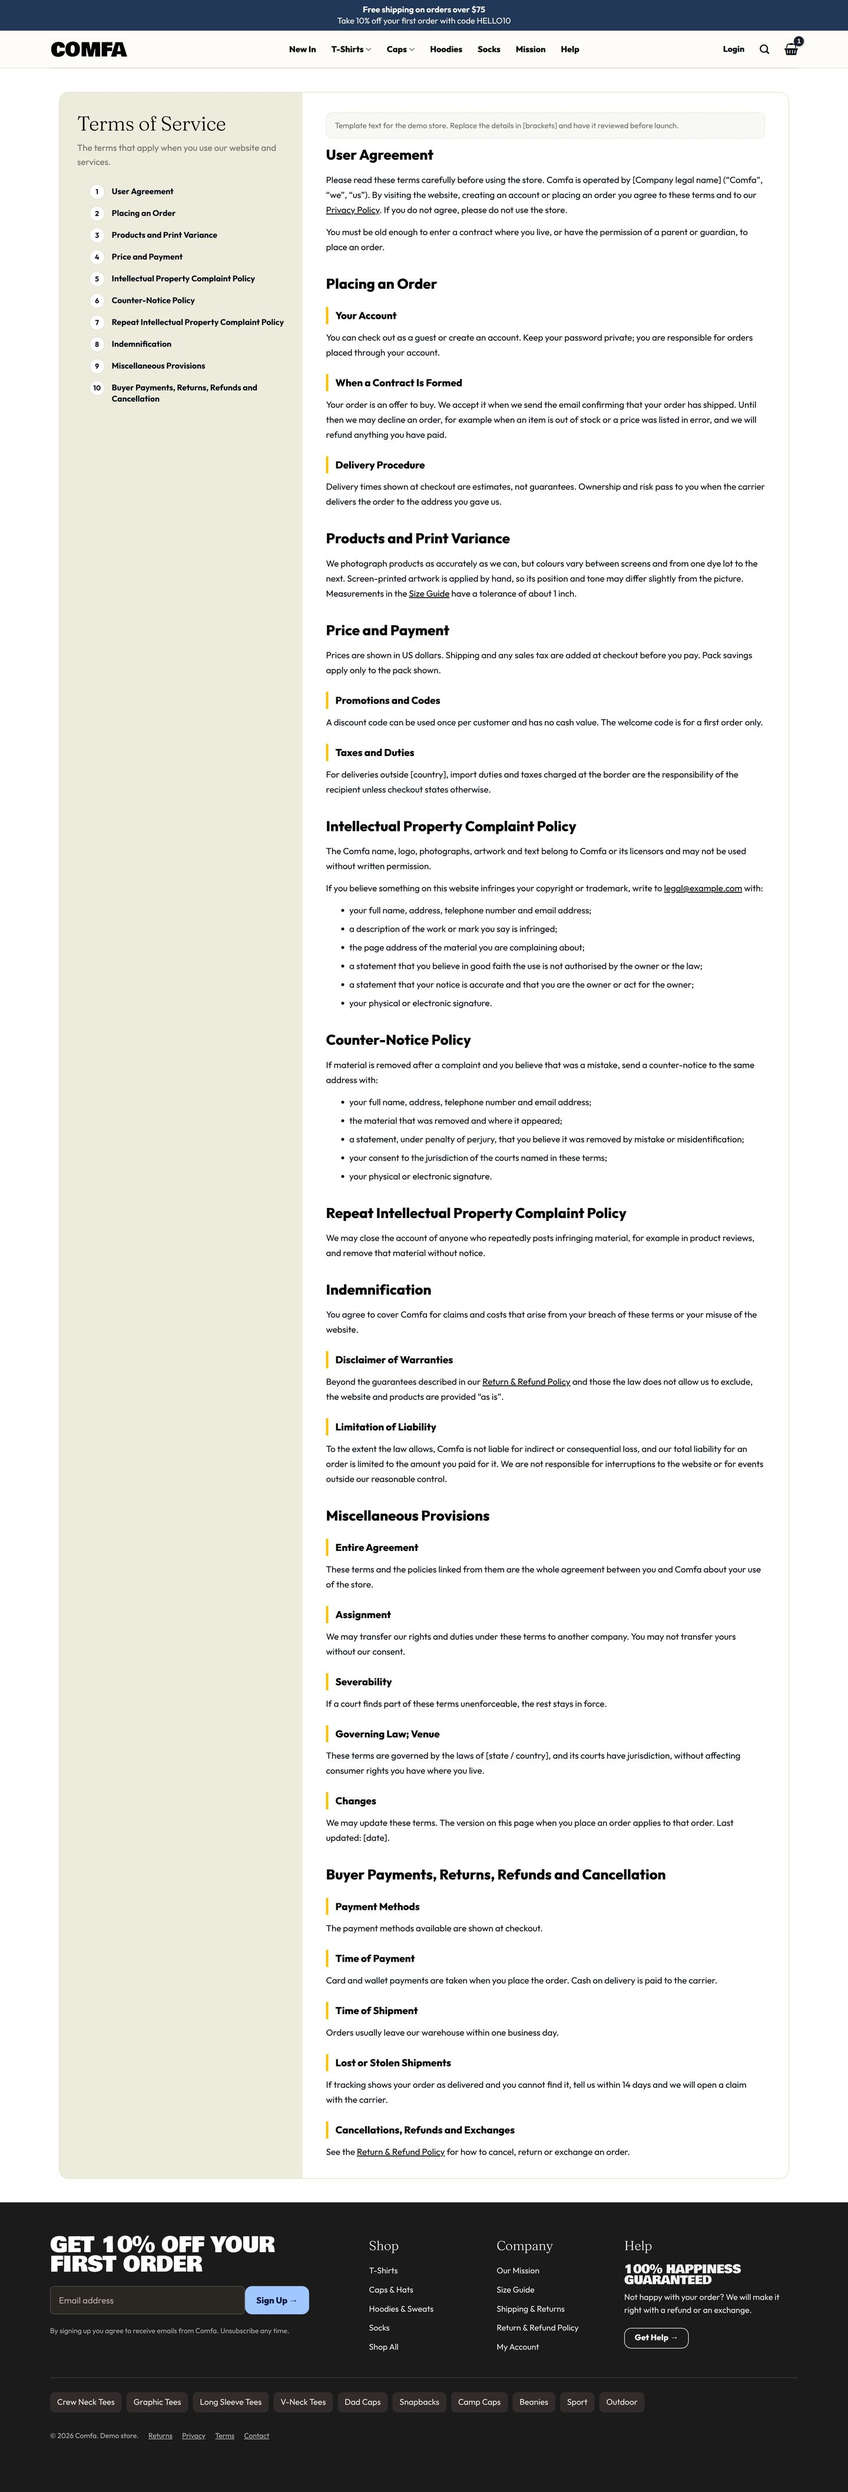
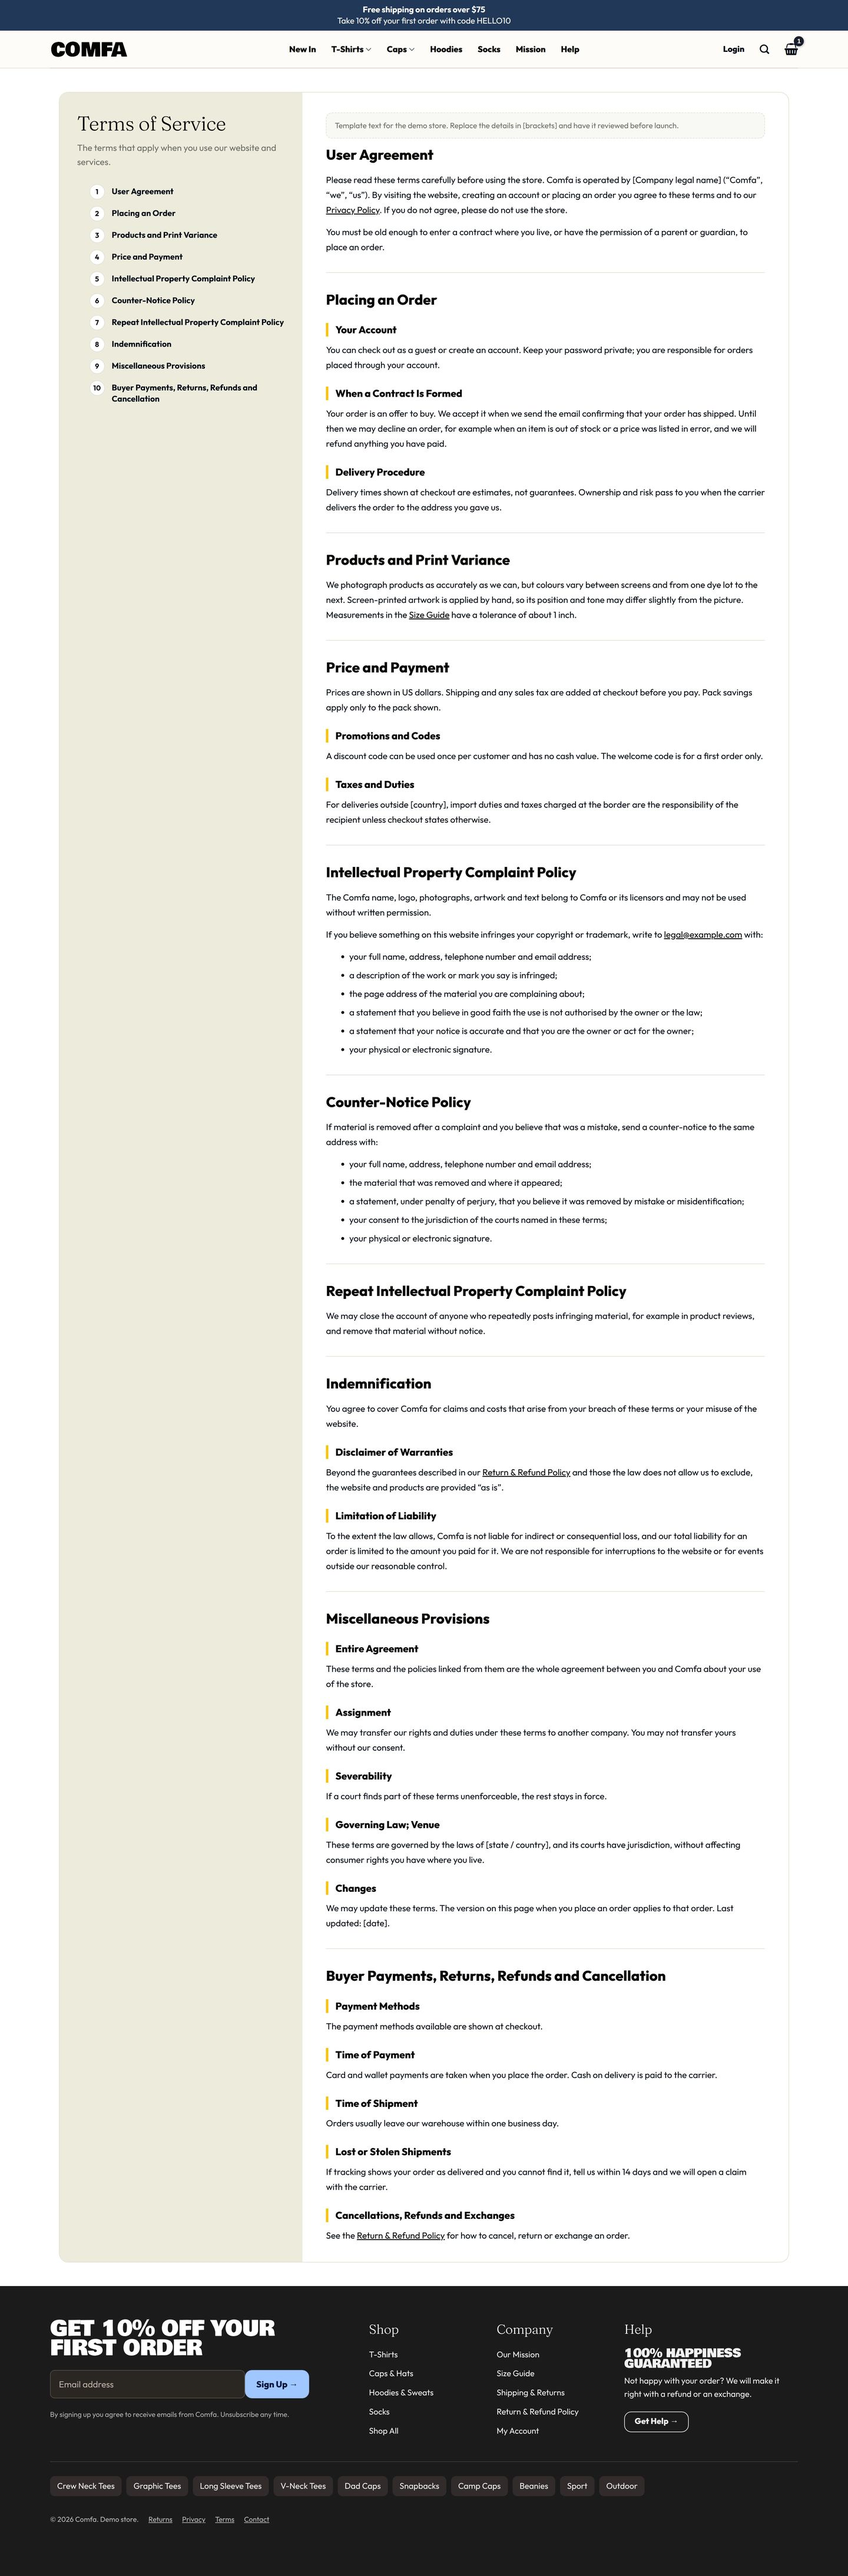
Comfa: match the reference mobile layout on policy and FAQ pages

Changed region(s): [[0.0, 0.0, 1.0, 0.9676], [0.0938, 0.0, 0.3125, 0.1561], [0.0625, 0.0, 0.0938, 0.0312]]

diff --git a/comfa/child-theme/comfa-child/assets/css/comfa.css b/comfa/child-theme/comfa-child/assets/css/comfa.css
@@ -287,29 +287,37 @@
 .cf-doc__more { margin: 20px 0 0; font-size: 14px; font-weight: 700; }
 .cf-doc__more a { text-decoration: underline; }
 .cf-doc__body > .col-inner { padding: 34px 40px 20px; font-size: 15px; line-height: 1.7; }
-.cf-doc__body h2 { font-size: 24px; font-weight: 800; margin: 34px 0 14px; scroll-margin-top: 110px; }
-.cf-doc__body h2:first-child, .cf-doc__note + h2 { margin-top: 0; }
-.cf-doc__body h3 { font-size: 17px; font-weight: 800; margin: 24px 0 10px; padding-left: 12px; border-left: 4px solid var(--cf-yellow); scroll-margin-top: 110px; }
+.cf-doc__body h2 { font-size: 24px; font-weight: 800; margin: 30px 0 14px; padding-top: 30px; border-top: 1px solid var(--cf-line); scroll-margin-top: 90px; }
+.cf-doc__body h2:first-child, .cf-doc__body .cf-doc__note + h2 { margin-top: 0; padding-top: 0; border-top: 0; }
+.cf-doc__body h3 { font-size: 17px; font-weight: 800; line-height: 1.35; margin: 24px 0 10px; padding-left: 12px; border-left: 4px solid var(--cf-yellow); scroll-margin-top: 110px; }
 .cf-doc__body h4 { font-size: 15px; font-weight: 800; margin: 16px 0 4px; }
 .cf-doc__body p { margin-bottom: 12px; }
 .cf-doc__body ul { margin: 0 0 14px 20px; }
 .cf-doc__body li { margin-bottom: 6px; }
 .cf-doc__body a:not(.accordion-title) { text-decoration: underline; }
 .cf-doc__note { padding: 10px 14px; border-radius: 10px; background: var(--cf-soft); border: 1px dashed var(--cf-line); font-size: 13px; color: var(--cf-muted); margin-bottom: 24px; }
+.cf-doc--faq .accordion { margin-bottom: 0; }
 .cf-doc--faq .accordion-item { border: 1px solid var(--cf-line); border-radius: var(--cf-radius); margin-bottom: 10px; background: #fff; }
-.cf-doc--faq .accordion-title { position: relative; border: 0; padding: 16px 52px 16px 18px; font-size: 15px; font-weight: 700; color: var(--cf-ink); background: none; }
+.cf-doc--faq .accordion-title { position: relative; border: 0; padding: 16px 52px 16px 18px; font-size: 15px; font-weight: 700; line-height: 1.4; color: var(--cf-ink); background: none; }
 .cf-doc--faq .accordion-title.active { background: none; color: var(--cf-ink); }
 .cf-doc--faq .accordion-title .toggle { display: none; }
 .cf-doc--faq .accordion-title::after { content: "+"; position: absolute; right: 16px; top: 50%; width: 24px; height: 24px; margin-top: -12px; border-radius: 50%; background: var(--cf-yellow); color: var(--cf-ink); font-size: 18px; font-weight: 700; line-height: 23px; text-align: center; }
 .cf-doc--faq .accordion-title.active::after { content: "\2212"; }
 .cf-doc--faq .accordion-inner { padding: 0 18px 16px; }
 .cf-doc--faq .accordion-inner p:last-child { margin-bottom: 0; }
+/* Phones and tablets: like the reference pages, the contents list is dropped and the title band sits on top. */
 @media (max-width: 849px) {
+	.cf-doc .cf-doc__card { width: calc(100% - 28px); }
 	.cf-doc__side { border-radius: 15px 15px 0 0; }
 	.cf-doc__side > .col-inner { position: static; padding: 24px 20px; }
-	.cf-doc__side h1 { font-size: 28px; }
-	.cf-doc__body > .col-inner { padding: 24px 20px 8px; }
-	.cf-doc__body h2 { font-size: 21px; }
+	.cf-doc__side h1 { font-size: 26px; margin-bottom: 8px; }
+	.cf-doc__sub { margin-bottom: 0; }
+	.cf-doc__toc, .cf-doc__group { display: none; }
+	.cf-doc__more { margin-top: 14px; }
+	.cf-doc__body > .col-inner { padding: 24px 20px 8px; font-size: 14.5px; line-height: 1.8; }
+	.cf-doc__body h2 { font-size: 20px; margin-top: 24px; padding-top: 24px; }
+	.cf-doc__body h3 { font-size: 16px; }
+	.cf-doc--faq .accordion-title { padding: 14px 48px 14px 16px; }
 }
 .cf-size-table th { text-transform: none; letter-spacing: 0; font-size: 14px; }
 .cf-size-table td, .cf-size-table th { padding: 9px 10px; border-bottom: 1px solid var(--cf-line); }

diff --git a/comfa/DESIGN_SPEC.md b/comfa/DESIGN_SPEC.md
@@ -42,4 +42,4 @@ Outfit and Fraunces are set in Flatsome > Theme Options > Typography; Bowlby One
 
 **Bag and checkout:** off-canvas mini bag and cart page show free-shipping progress and the giving count; classic WooCommerce cart and checkout styled to match.
 
-**Policy and FAQ pages (UX Builder pages):** one rounded white card. Cream left column with serif title, subtitle and a numbered contents list that stays in view while scrolling; right column with the document, sub-headings marked by a yellow bar. The FAQ groups questions in Flatsome accordions with a yellow +/− marker. On mobile the contents list sits above the document.
+**Policy and FAQ pages (UX Builder pages):** one rounded white card. Cream left column with serif title, subtitle and a numbered contents list that stays in view while scrolling; right column with the document, sub-headings marked by a yellow bar. The FAQ groups questions in Flatsome accordions with a yellow +/− marker. Main sections are separated by a thin rule. Below 850 px the columns stack and the contents list is hidden, leaving the title band above the document.
